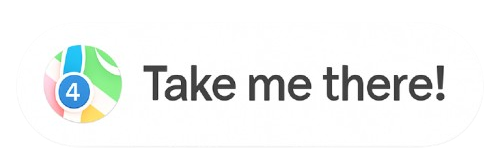
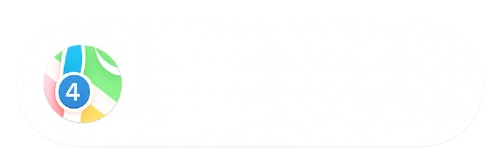
Implemented navigation button translated text

Changed region(s): [[0.27, 0.3892, 0.9, 0.6287]]

diff --git a/src/main/resources/META-INF/resources/sw.js b/src/main/resources/META-INF/resources/sw.js
@@ -77,7 +77,9 @@ const PRECACHE_RESOURCES = [
   '/poi-descriptions/stmargharetachurch.txt',
   '/poi-descriptions/stnicholaschurch.txt',
   '/poi-descriptions/stoberhouse.txt',
-  '/poi-descriptions/tractormuseum.txt'
+  '/poi-descriptions/tractormuseum.txt',
+  '/pointsofinterest/pois.txt',
+  '/pointsofinterest/poititles.txt'
 ];
 
 // Install event - cache critical resources

diff --git a/src/main/java/com/example/starter/base/views/POIDetailView.java b/src/main/java/com/example/starter/base/views/POIDetailView.java
@@ -4,6 +4,7 @@ import com.example.starter.base.entity.PointOfInterest;
 import com.example.starter.base.services.POIService;
 import com.vaadin.flow.component.applayout.AppLayout;
 import com.vaadin.flow.component.dependency.CssImport;
+import com.vaadin.flow.component.html.Div;
 import com.vaadin.flow.component.html.H2;
 import com.vaadin.flow.component.html.Paragraph;
 import com.vaadin.flow.component.html.Image;
@@ -29,6 +30,8 @@ import com.vaadin.flow.component.dependency.StyleSheet;
 import java.util.List;
 import java.io.IOException;
 import java.io.InputStream;
+import java.io.BufferedReader;
+import java.io.InputStreamReader;
 import java.nio.charset.StandardCharsets;
 import java.util.Locale;
 import java.util.stream.Stream;
@@ -58,7 +61,9 @@ public class POIDetailView extends AppLayout implements HasUrlParameter<String> 
         content.setSpacing(true);
         content.setPadding(true);
 
-        pointsOfInterest = poiService.getPointsOfInterest();
+        // Get POIs with current locale instead of default
+        Locale currentLocale = VaadinSession.getCurrent().getLocale();
+        pointsOfInterest = poiService.getPointsOfInterest(currentLocale);
     }
 
     private String loadDescription(PointOfInterest poi) {
@@ -92,12 +97,17 @@ public class POIDetailView extends AppLayout implements HasUrlParameter<String> 
     public void setParameter(BeforeEvent event, String parameter) {
         content.removeAll();
 
+        // Refresh POI data with current locale to ensure we have the latest translations
+        Locale currentLocale = VaadinSession.getCurrent().getLocale();
+        pointsOfInterest = poiService.getPointsOfInterest(currentLocale);
+
         PointOfInterest poi = pointsOfInterest.stream()
                 .filter(p -> p.getName().equals(parameter))
                 .findFirst()
                 .orElse(null);
 
         if (poi != null) {
+            // The poi.getDisplayName() now contains the localized title from poititles.txt
             H2 title = new H2(poi.getDisplayName());
             title.addClassName("poi-title");
             content.add(title);
@@ -113,30 +123,97 @@ public class POIDetailView extends AppLayout implements HasUrlParameter<String> 
             MapContainer map = createMap(poi);
             map.addClassName("poi-map");
 
-            Image navigateButton = new Image("/images/navigationbutton.webp", "Navigate with Google Maps");
-            navigateButton.addClassName("navigate-button");
-            navigateButton.getElement().getStyle().set("cursor", "pointer");
-            navigateButton.addClickListener(e -> {
-                getUI().ifPresent(ui -> ui.getPage().executeJs(
-                        "window.open($0, '_blank');", poi.getNavigationUrl()
-                ));
-            });
+            // Get localized "Take me there!" text
+            String takeMeText = getLocalizedTakeMeText(currentLocale);
 
-            Image appleNavigateButton = new Image("/images/applenavigationbutton.webp", "Navigate with Apple Maps");
-            appleNavigateButton.addClassName("navigate-button");
-            appleNavigateButton.getElement().getStyle().set("cursor", "pointer");
-            appleNavigateButton.addClickListener(e -> {
-                getUI().ifPresent(ui -> ui.getPage().executeJs(
-                        "window.open($0, '_blank');", poi.getAppleNavigationUrl()
-                ));
-            });
+            Div navigateButtonContainer = createNavigationButton(
+                "/images/navigationbutton.webp",
+                "Navigate with Google Maps",
+                takeMeText,
+                poi.getNavigationUrl()
+            );
 
-            content.add(title, image, description, gallery, navigateButton,appleNavigateButton, map);
+            Div appleNavigateButtonContainer = createNavigationButton(
+                "/images/applenavigationbutton.webp",
+                "Navigate with Apple Maps",
+                takeMeText,
+                poi.getAppleNavigationUrl()
+            );
+
+            content.add(title, image, description, gallery, navigateButtonContainer, appleNavigateButtonContainer, map);
         } else {
             content.add(new H2("Point of Interest not found"));
         }
 
         setContent(content);
+    }
+
+    private String getLocalizedTakeMeText(Locale locale) {
+        String languageCode = locale.getLanguage().toUpperCase();
+        String resourcePath = "/META-INF/resources/pointsofinterest/poititles.txt";
+
+        try (InputStream is = getClass().getResourceAsStream(resourcePath);
+             BufferedReader reader = new BufferedReader(new InputStreamReader(is, StandardCharsets.UTF_8))) {
+
+            String line;
+            while ((line = reader.readLine()) != null) {
+                if (line.startsWith("takeme;")) {
+                    String[] parts = line.split(";");
+                    for (int i = 1; i < parts.length; i++) {
+                        String part = parts[i].trim();
+                        if (part.startsWith(languageCode + ":")) {
+                            return part.substring(languageCode.length() + 1);
+                        }
+                    }
+                    // Fallback to English if language not found
+                    for (int i = 1; i < parts.length; i++) {
+                        String part = parts[i].trim();
+                        if (part.startsWith("EN:")) {
+                            return part.substring(3);
+                        }
+                    }
+                }
+            }
+        } catch (IOException | NullPointerException e) {
+            e.printStackTrace();
+        }
+
+        return "Take me there!"; // Default fallback
+    }
+
+    private Div createNavigationButton(String imagePath, String altText, String overlayText, String url) {
+        Div buttonContainer = new Div();
+        buttonContainer.addClassName("navigation-button-container");
+        buttonContainer.getStyle().set("position", "relative");
+        buttonContainer.getStyle().set("display", "inline-block");
+        buttonContainer.getStyle().set("cursor", "pointer");
+
+        Image buttonImage = new Image(imagePath, altText);
+        buttonImage.addClassName("navigate-button");
+
+        H2 overlayTextElement = new H2(overlayText);
+        overlayTextElement.addClassName("navigation-overlay-text");
+        overlayTextElement.getStyle().set("position", "absolute");
+        overlayTextElement.getStyle().set("top", "50%");
+        overlayTextElement.getStyle().set("left", "50%");
+        overlayTextElement.getStyle().set("transform", "translate(-50%, -50%)");
+        overlayTextElement.getStyle().set("margin", "0");
+        overlayTextElement.getStyle().set("color", "black");
+        overlayTextElement.getStyle().set("font-weight", "bold");
+        //overlayTextElement.getStyle().set("text-shadow", "2px 2px 4px rgba(0,0,0,0.8)");
+        overlayTextElement.getStyle().set("pointer-events", "none");
+        overlayTextElement.getStyle().set("font-size", "2.5em");
+        overlayTextElement.getStyle().set("text-align", "center");
+
+        buttonContainer.add(buttonImage, overlayTextElement);
+
+        buttonContainer.addClickListener(e -> {
+            getUI().ifPresent(ui -> ui.getPage().executeJs(
+                    "window.open($0, '_blank');", url
+            ));
+        });
+
+        return buttonContainer;
     }
 
     private HorizontalLayout createImageGallery(PointOfInterest poi) {
@@ -260,3 +337,4 @@ public class POIDetailView extends AppLayout implements HasUrlParameter<String> 
         dialog.open();
     }
 }
+
